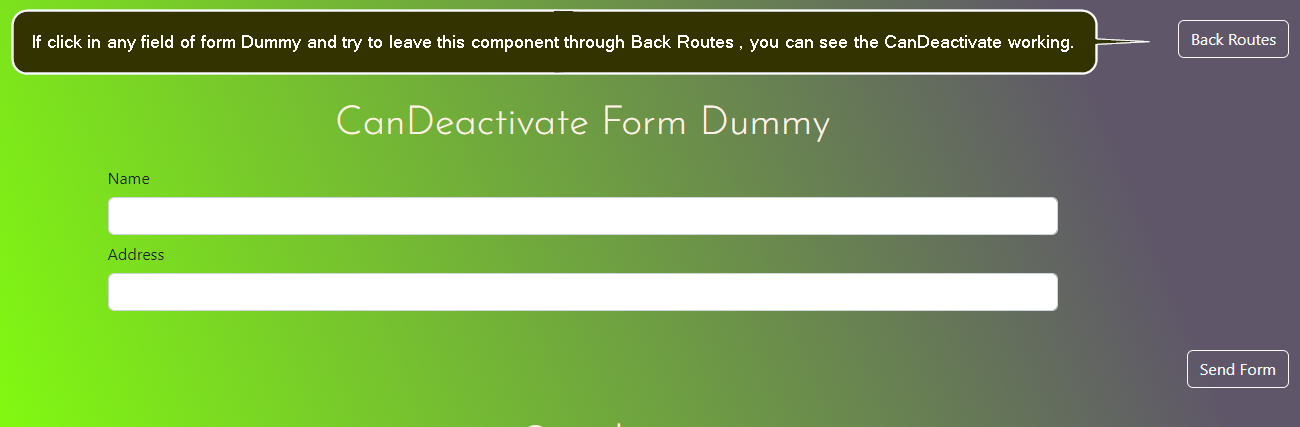
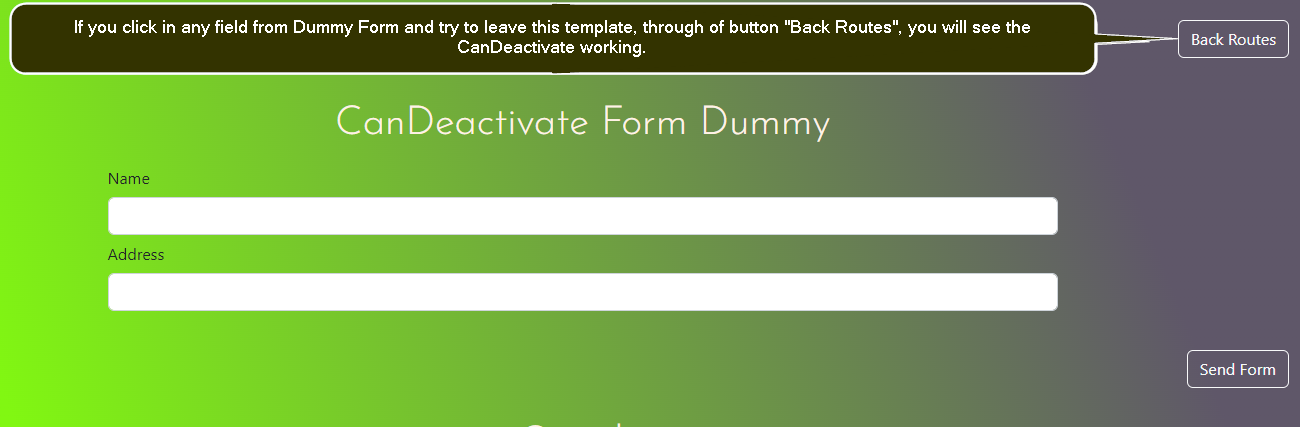
can-deactivate.component done

Changed region(s): [[0.0, 0.0, 0.8923, 0.1827], [0.4, 0.1522, 0.4615, 0.1827]]

diff --git a/angular_training/src/app/routes/can-deactivate/can-deactivate.component.html b/angular_training/src/app/routes/can-deactivate/can-deactivate.component.html
@@ -33,12 +33,33 @@
   <div class="col-xs-12 picture">
     <h3>FormsComponent.HTML</h3>
     <div class="image">
-      <img src="./../../../assets/img-routes/05_ChildRoutes_ModuleHTML.png" alt="Arquivo Html">
+      <img src="./../../../assets/img-routes/08_CanDeactivateCompomentTEMPLATE.png" alt="Arquivo Html">
     </div>
   </div>
   <div class="col-xs-12 picture">
+    <h3>Template After Click</h3>
+    <div class="image">
+      <img src="./../../../assets/img-routes/08_CanDeactivateCompomentTEMPLATEafter.png" alt="Arquivo Html">
+    </div>
+  </div>
+  <div class="col-xs-12 picture">
+    <h3>CanDeactivateCompoment.TS</h3>
+    <!-- <h3>UnSaveChangesGuard.Service.TS</h3> -->
+    <div class="image">
+      <img src="../../../assets/img-routes/08_CanDeactivateCompomentTS.png" alt="Arquivo Html">
+    </div>
+  </div>
+  <div class="col-xs-12 picture">
+    <h3>RoutesModule.TS</h3>
+    <!-- <h3>UnSaveChangesGuard.Service.TS</h3> -->
     <div class="image">
       <img src="../../../assets/img-routes/08_CanDeactivate_RoutesModuleTS.png" alt="Arquivo Html">
+    </div>
+  </div>
+  <div class="col-xs-12 picture">
+    <h3>UnSaveChangesGuard.Service.TS</h3>
+    <div class="image">
+      <img src="../../../assets/img-routes/08_CanDeactivateSERVICES.png" alt="Arquivo Html">
     </div>
   </div>
 

diff --git a/angular_training/src/app/routes/routes.module.ts b/angular_training/src/app/routes/routes.module.ts
@@ -1,4 +1,4 @@
-import { UnSaveChangesGuardsService } from './../_share/auth-guards/un-save-changes-guards.service';
+import { UnSaveChangesGuardsService } from '../_share/auth-guards/unsave-changesguards.service';
 import { BasicsComponent } from './basics/basics.component';
 import { DummyAdminGuardService } from './../_share/auth-guards/dummy-admin-guard.service';
 import { RouterModule, CanDeactivate } from '@angular/router';

diff --git a/angular_training/src/app/routes/can-deactivate/can-deactivate.component.ts b/angular_training/src/app/routes/can-deactivate/can-deactivate.component.ts
@@ -1,4 +1,4 @@
-import { ICanComponentLeave } from './../../_share/auth-guards/un-save-changes-guards.service';
+import { ICanComponentLeave } from '../../_share/auth-guards/unsave-changesguards.service';
 import { Component, HostListener, OnInit } from '@angular/core';
 import { FormBuilder, FormGroup } from '@angular/forms';
 

diff --git a/angular_training/src/app/routes/can-deactivate/can-deactivate.component.css b/angular_training/src/app/routes/can-deactivate/can-deactivate.component.css
@@ -23,6 +23,7 @@ h2 {
 
 h3 {
   font-family: 'Josefin Sans', sans-serif;
+  padding: 1%;
   font-style: normal;
   font-size: 1.5rem;
   line-height: 20px;
@@ -38,7 +39,7 @@ h3 {
 }
 
 .col-xs-12.picture{
-  background: inherit;
+  background: transparent;
 
 }
 .col-xs-12.picture:hover {
